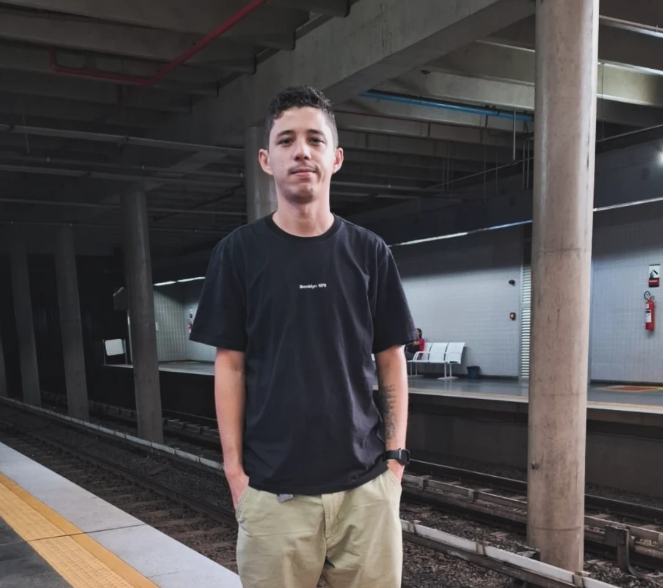
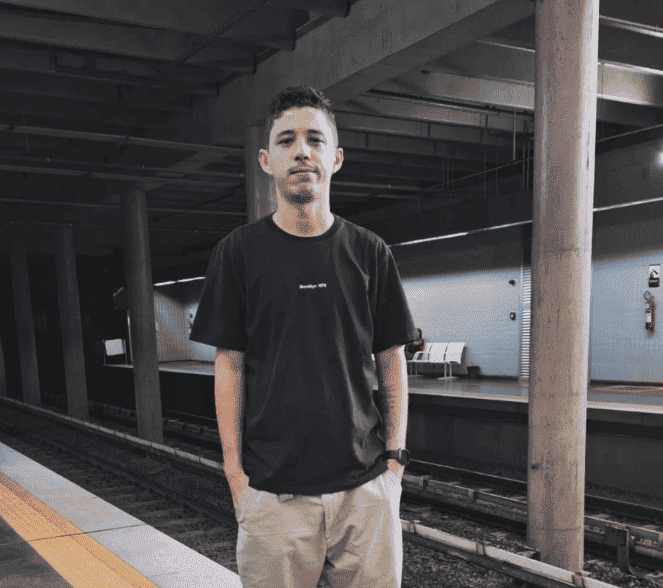
reduzi o peso da imagem e meu nome eu alterei

diff --git a/index.html b/index.html
@@ -4,7 +4,7 @@
 <head>
     <meta charset="UTF-8">
     <meta name="viewport" content="width=device-width, initial-scale=1.0">
-    <title>WDD 130 e Valleir Malta</title>
+    <title>Valleir Malta | WDD 130</title>
 </head>
 
 <body>
@@ -15,7 +15,7 @@
         </nav>
     </header>
     <main>
-        <h1>WDD 130 e Valleir Malta</h1>
+        <h1>Valleir Malta | WDD 130</h1>
         <img src="imagens/perfil.png" alt="Olá meu nome é Valleir Malta Rocha" width="200">
         <p>Olá, amo progamar e quero deixa o mundo mais bonito!</p>
     </main>
